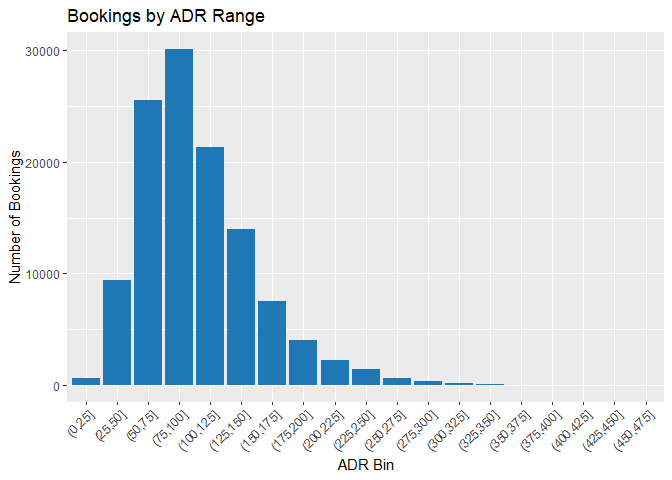
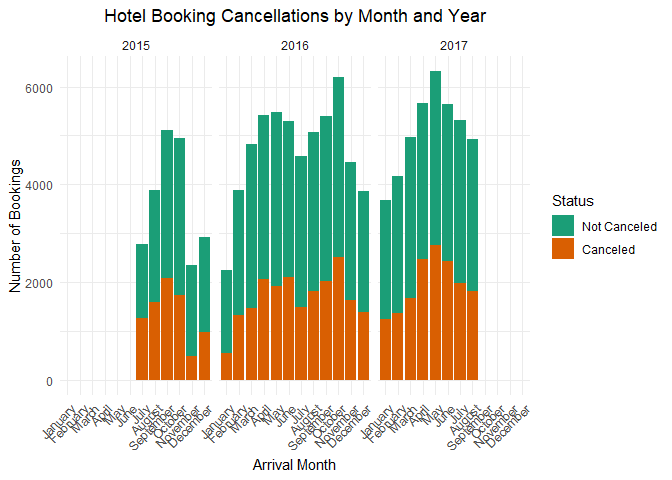
Added remaining graphs for question 1

diff --git a/README.md b/README.md
@@ -269,7 +269,8 @@ Now we see that in 2015 the months with the most bookings were
 September-October, in 2016 it was October again, followed by the spring
 and summer months, and in 2017 it was May with the highest number of
 bookings, with its surrounding months following it. For the most part we
-still see that months with warmer weather have more bookings.
+still see that months with warmer. more mild weather, like the spring
+and fall seasons have more bookings.
 
 Now we observe how how the month affects the bookings separately for the
 resort and city hotels.
@@ -316,6 +317,79 @@ As you can see in this graph, we can see that the bookings in generally
 have been increasing slightly over the years, and that they are
 generally higher in the spring and the fall.
 
+The following graph shows bookings cancelled vs bookings not cancelled
+by month and facetted by year.
+
+``` r
+# set up data to compare with cancelled or not
+cancellation_summary <- data %>%
+  group_by(arrival_date_year, arrival_date_month, is_canceled) %>%
+  summarise(bookings = n(), .groups = 'drop')
+
+# add key
+cancellation_summary$is_canceled <- factor(cancellation_summary$is_canceled,
+                                           labels = c("Not Canceled", "Canceled"))
+
+# Plot
+ggplot(cancellation_summary, aes(x = arrival_date_month, y = bookings, fill = is_canceled)) +
+  geom_bar(stat = "identity", position = "stack") +
+  facet_wrap(~ arrival_date_year) +
+  scale_fill_manual(values = c("Not Canceled" = "#1b9e77", "Canceled" = "#d95f02")) +
+  labs(title = "Hotel Booking Cancellations by Month and Year",
+       x = "Arrival Month", y = "Number of Bookings", fill = "Status") +
+  theme_minimal() +
+  theme(axis.text.x = element_text(angle = 45, hjust = 1),
+        plot.title = element_text(hjust = 0.5))
+```
+
+![](README_files/figure-gfm/unnamed-chunk-5-1.png)<!-- -->
+
+Looking at the chart the number of cancellations seems to follow the
+number of bookings. There doesn’t seem to be any super significant
+months or years where cancellations are more frequent in comparison to
+the number of bookings for that month.
+
+Now we want to observe if the month/year affects the duration of a
+guest’s stay.
+
+``` r
+#add variables for length of stay and total number of guests for later calculations
+data <- data %>%
+  mutate(
+    length_of_stay = stays_in_weekend_nights + stays_in_week_nights,
+  )
+
+
+avg_stay_per_booking <- data %>%
+  group_by(arrival_date_year, arrival_date_month) %>%
+  summarise(
+    avg_stay = mean(length_of_stay, na.rm = TRUE),
+    .groups = 'drop'
+  )
+
+
+ggplot(avg_stay_per_booking, aes(x = arrival_date_month, y = avg_stay, fill = arrival_date_month)) +
+  geom_bar(stat = "identity") +
+  facet_wrap(~arrival_date_year) +
+  labs(title = "Average Length of Stay per Booking",
+       x = "Month", y = "Average Length of Stay") +
+  scale_fill_manual(values = monthcolors) +
+  theme_minimal() +
+  theme(
+    axis.text.x = element_text(angle = 45, hjust = 1),
+    plot.title = element_text(hjust = 0.5),
+    legend.position = "none"
+  )
+```
+
+![](README_files/figure-gfm/unnamed-chunk-6-1.png)<!-- -->
+
+This graph shows the average length of stay for each booking. We
+calculate total nights stayed by adding weekend nights and week nights
+together. It demonstrates that the average length of stay for a booking
+is longer in summer months / hotter weather with it being around 3-4
+nights, with the colder months being more around 2-3 nights on average.
+
 ### How does the average daily rate affect bookings?
 
 ``` r
@@ -325,10 +399,6 @@ library(ggplot2)
 library(tidyr)
 library(scales)
 
-# Convert arrival_date_month to ordered factor for correct month sorting
-data$arrival_date_month <- factor(data$arrival_date_month, 
-                                   levels = c("January", "February", "March", "April", "May", "June", 
-                                              "July", "August", "September", "October", "November", "December"))
 
 # 1. ADR and Bookings by Month and Year
 monthly_adr <- data %>%
@@ -350,7 +420,7 @@ data %>%
   theme(axis.text.x = element_text(angle = 45, hjust = 1))
 ```
 
-![](README_files/figure-gfm/unnamed-chunk-5-1.png)<!-- -->
+![](README_files/figure-gfm/unnamed-chunk-7-1.png)<!-- -->
 
 ``` r
 # 4. ADR by Month
@@ -365,7 +435,7 @@ ggplot(monthly_adr_data, aes(x = arrival_date_month, y = avg_adr, fill = arrival
   scale_x_discrete(limits = levels(data$arrival_date_month))
 ```
 
-![](README_files/figure-gfm/unnamed-chunk-5-2.png)<!-- -->
+![](README_files/figure-gfm/unnamed-chunk-7-2.png)<!-- -->
 
 ``` r
 # Calculate average bookings by month, considering different years
@@ -388,7 +458,7 @@ ggplot(monthly_avg_bookings, aes(x = arrival_date_month, y = avg_bookings, fill 
   scale_x_discrete(limits = levels(data$arrival_date_month))
 ```
 
-![](README_files/figure-gfm/unnamed-chunk-5-3.png)<!-- -->
+![](README_files/figure-gfm/unnamed-chunk-7-3.png)<!-- -->
 
 ``` r
 # Monthly comparison: avg_adr and avg_bookings by month and year
@@ -428,7 +498,7 @@ ggplot(monthly_comparison_long, aes(x = arrival_date_month, y = value, fill = me
   theme(axis.text.x = element_text(angle = 45, hjust = 1))
 ```
 
-![](README_files/figure-gfm/unnamed-chunk-5-4.png)<!-- -->
+![](README_files/figure-gfm/unnamed-chunk-7-4.png)<!-- -->
 
 ``` r
 ggplot(monthly_comparison_long, aes(x = arrival_date_month, y = value, fill = metric)) +
@@ -444,4 +514,4 @@ ggplot(monthly_comparison_long, aes(x = arrival_date_month, y = value, fill = me
   theme(axis.text.x = element_text(angle = 45, hjust = 1))
 ```
 
-![](README_files/figure-gfm/unnamed-chunk-5-5.png)<!-- -->
+![](README_files/figure-gfm/unnamed-chunk-7-5.png)<!-- -->
